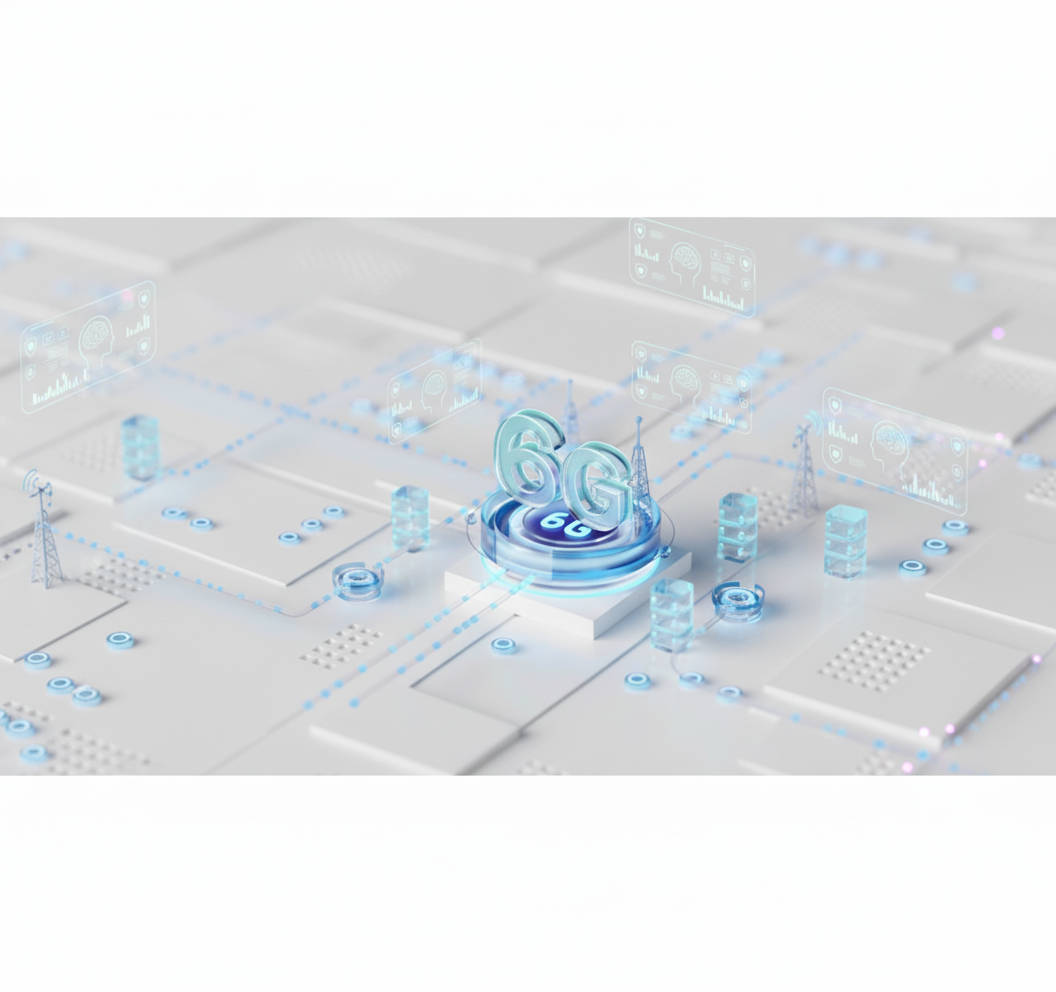
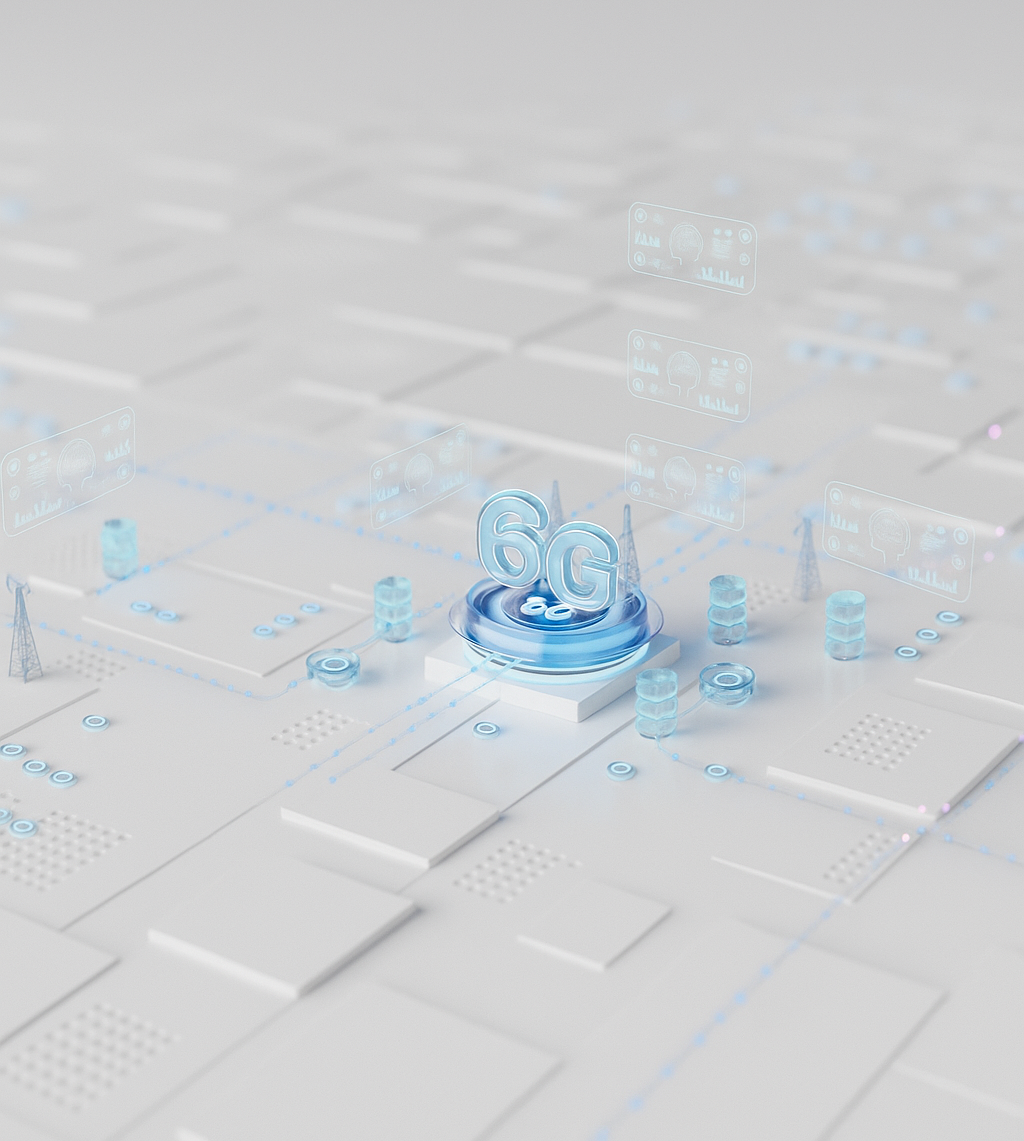
홈 화면 사진 추가

diff --git a/src/pages/Home.css b/src/pages/Home.css
@@ -17,6 +17,7 @@
   position: relative;
   width: 100vw;
   height: 100vh;
+  min-height: 100vh;
   display: flex;
   align-items: center;
   justify-content: center;

diff --git a/src/pages/Home.jsx b/src/pages/Home.jsx
@@ -13,7 +13,6 @@ export default function Home() {
   const heroImages = [
     '/images/home/6G_1.png', 
     '/images/home/6G_2.png'
-
   ];
 
   useEffect(() => {
